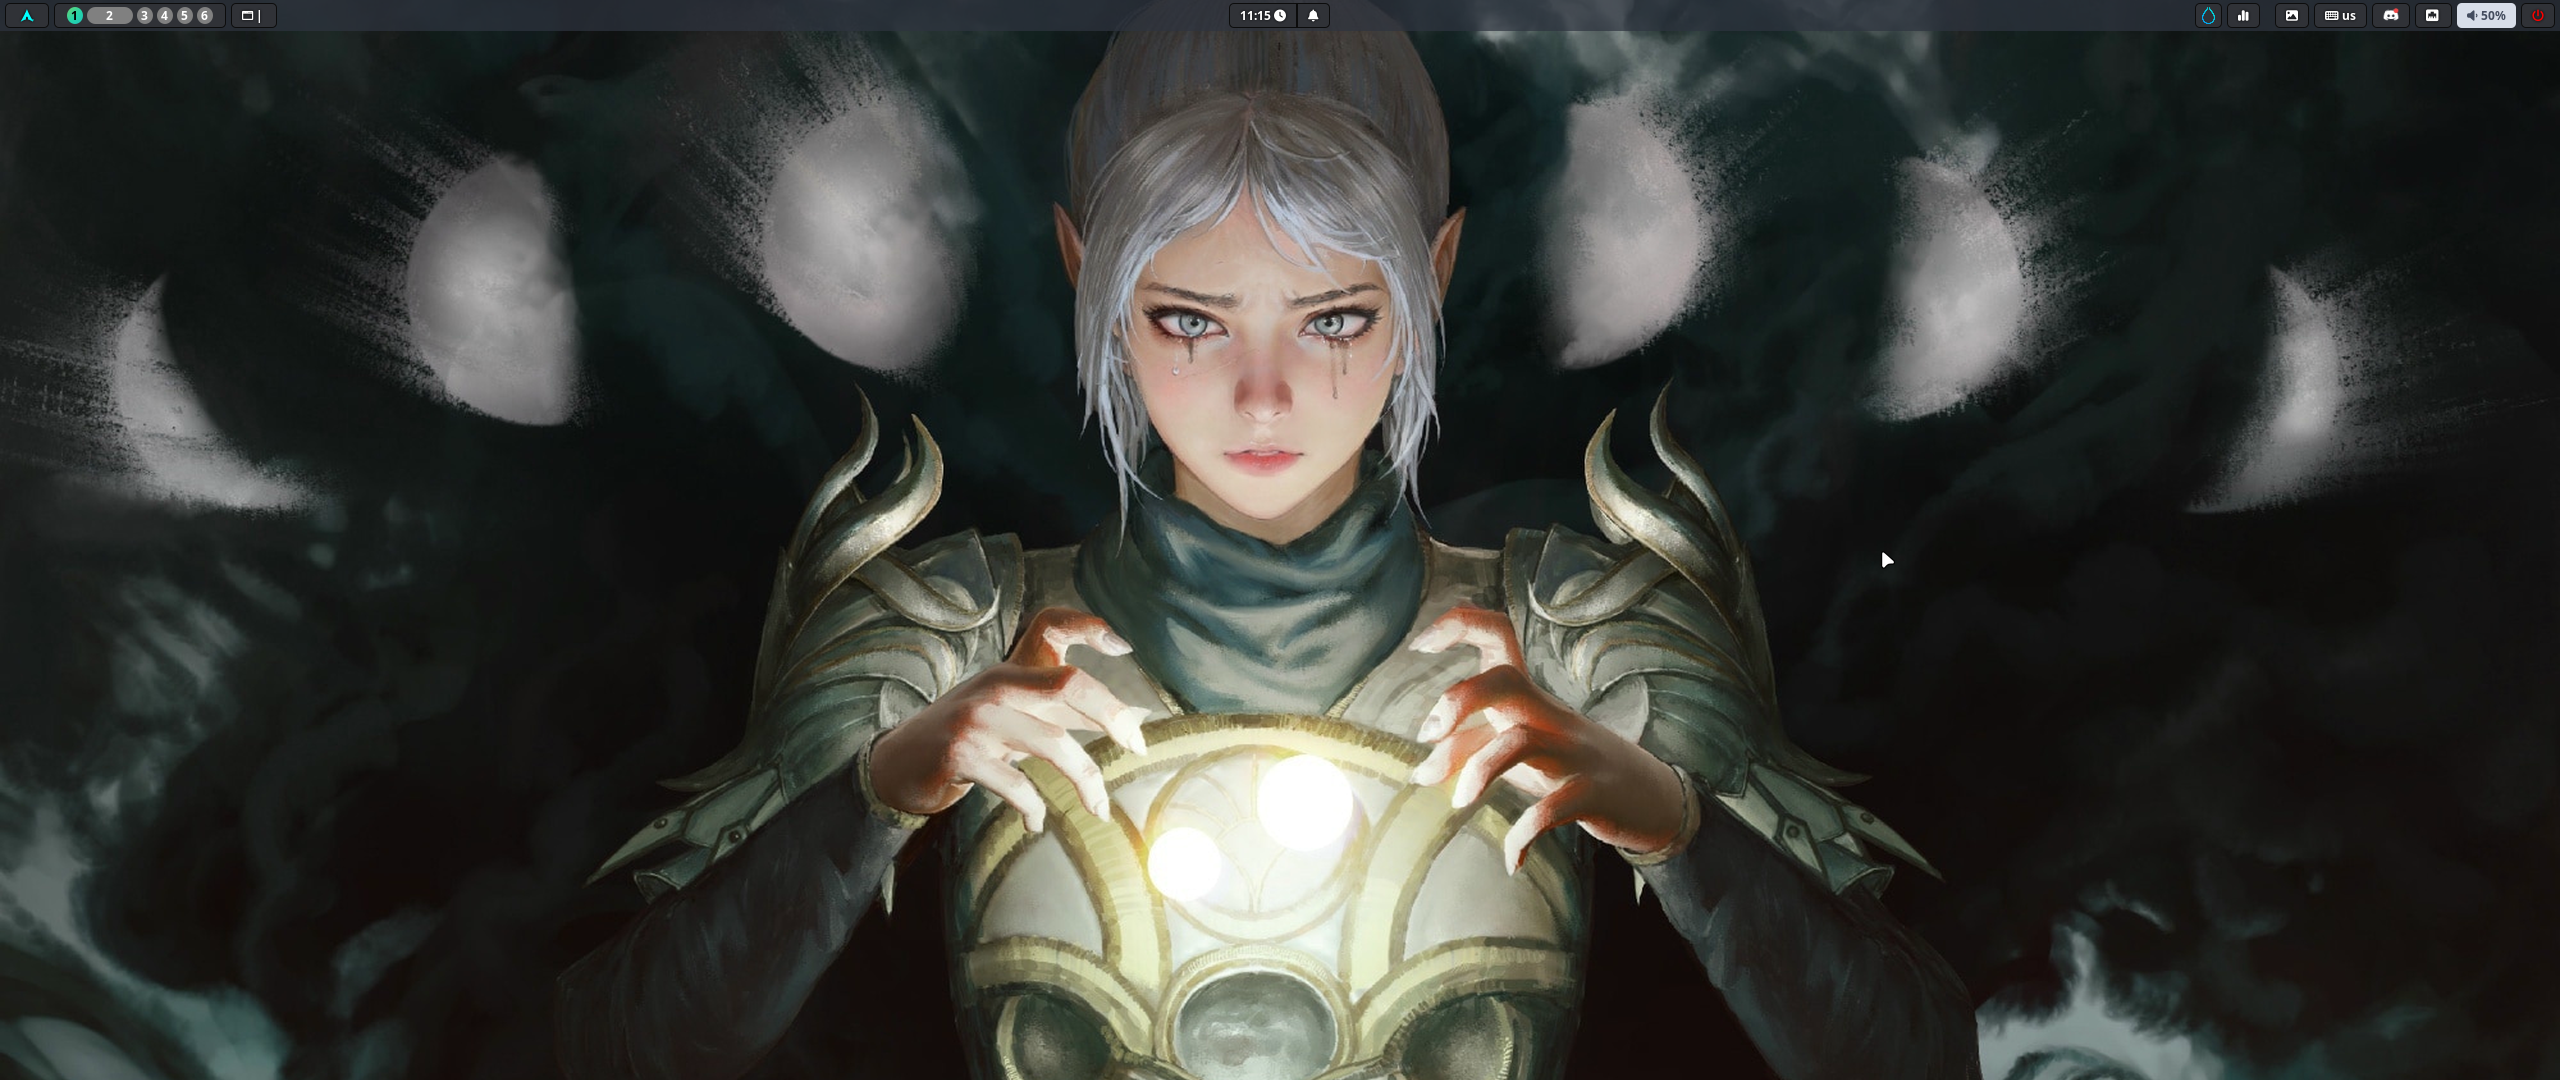
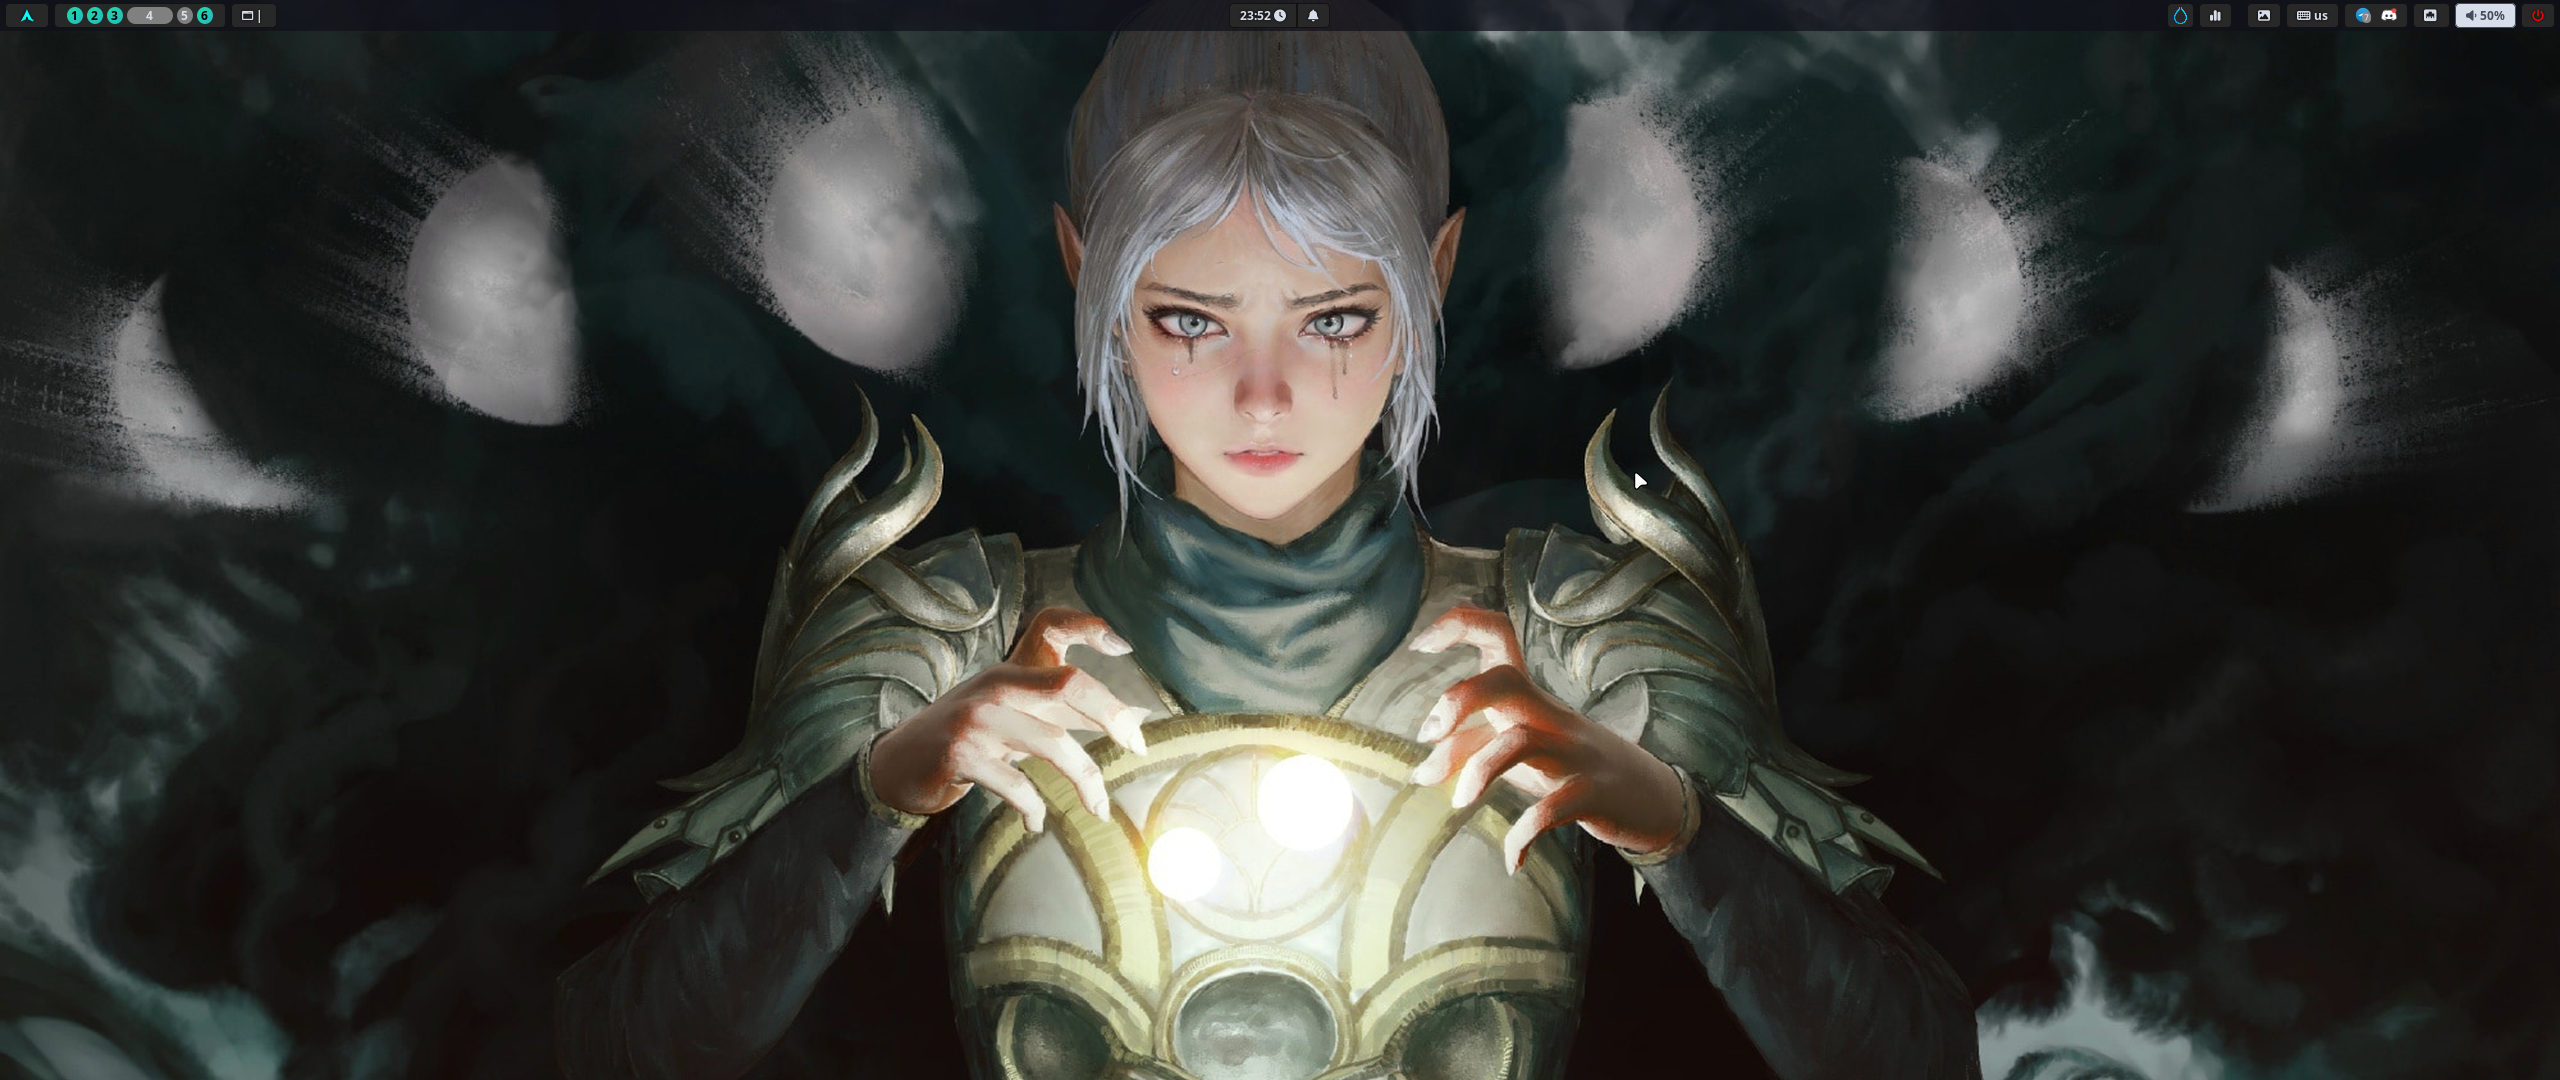
Updated preview in readme - And new wifi style

Changed region(s): [[0.0, 0.0, 1.0, 0.0306]]

diff --git a/README.md b/README.md
@@ -54,7 +54,7 @@ Used for nice work dotfiles
 - `gnome-software`, `nautilus`, `frog-protocols`
 
 ## Images
-- Version 0.7.3
+- Version 0.7.5.2
 - [`Backgroud wallpaper`](https://github.com/SNIPPIK/wallpapers/blob/main/Pack%202/shadow.jpg)
 <img align="" alt="image" width="1920" src="/assets/images/1.png" />
 <img align="" alt="image" width="1920" src="/assets/images/2.png" />
